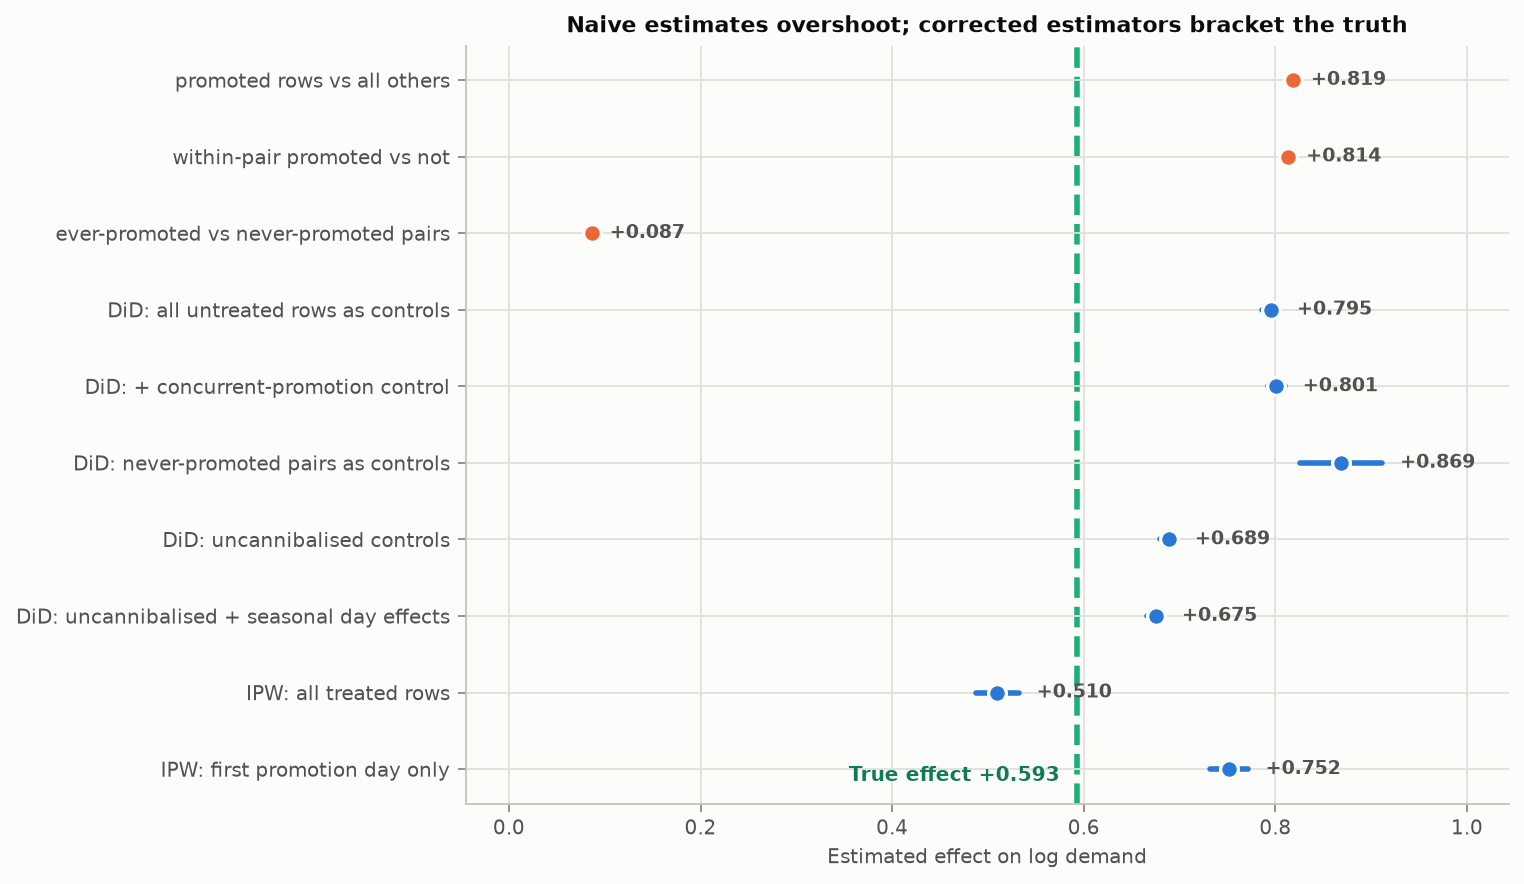
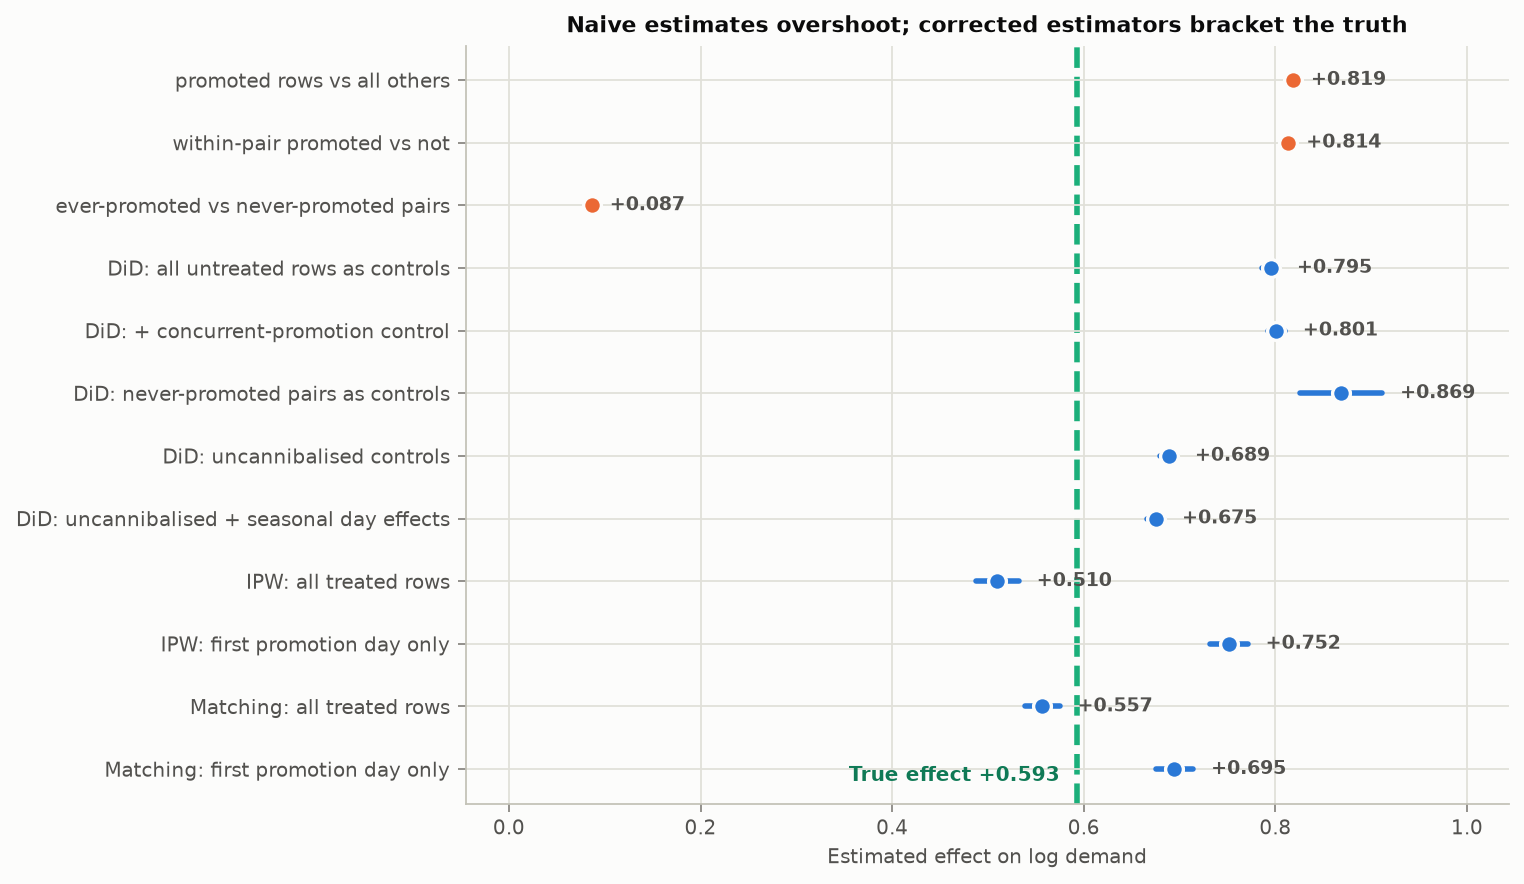
Add propensity score matching alongside the IPW arm
§6 Phase 4.3 asks for "propensity score matching / IPW". Only the weighting half
was built. The two share a propensity model and an identifying assumption, so
they cannot disagree about whether selection on observables holds - but they can
disagree about the weights, and that is worth knowing. IPW keeps every in-support
row and lets one extreme score carry a large share of the estimate; matching
pairs each treated row with its nearest untreated neighbour and discards what it
cannot pair.

psm.match_att does nearest-neighbour matching on the propensity logit, with
replacement, inside a 0.2-SD caliper. The logit rather than the raw score because
the score compresses near 0 and 1, where a fixed caliper spans far more covariate
distance than the same caliper mid-distribution. Nearest neighbour comes from a
sort plus a searchsorted rather than a pairwise scan, which is what makes it
tractable at 2.19M rows. psm.matched_balance is the matched-sample equivalent of
standardised_differences; both share _nearest_neighbour_pairs so the estimate and
its balance table can never be computed off different pairings.

Results, against the 0.5935 target:

  all treated rows          IPW +0.510 (-0.083)   matching +0.557 (-0.037)
  first promotion day only  IPW +0.752 (+0.158)   matching +0.695 (+0.101)

100% of treated rows match inside the caliper on both samples, which restates
the existing overlap finding rather than adding a new one.
[…]

diff --git a/src/causal/psm.py b/src/causal/psm.py
@@ -181,6 +181,166 @@ def ipw_att(
     }
 
 
+def _nearest_neighbour_pairs(
+    frame: pd.DataFrame, propensity: pd.Series, caliper_sd: float
+) -> Dict[str, object]:
+    """
+    Pair each treated row with its nearest untreated row on the propensity logit.
+
+    Matching on the logit rather than the raw score is deliberate: the score
+    compresses near 0 and 1, so a fixed caliper there spans far more covariate
+    distance than the same caliper mid-distribution.
+
+    Nearest neighbour is found by binary search on the sorted control scores.
+    Once sorted, the insertion point and the element before it are the only two
+    candidates, which turns an O(n_treated x n_control) scan into a sort plus a
+    searchsorted — the difference between seconds and hours at this row count.
+    """
+    treated_mask = frame["promo_flag"].astype(bool).to_numpy()
+    e = np.clip(propensity.to_numpy(), 1e-6, 1 - 1e-6)
+    score = np.log(e / (1 - e))
+    caliper = caliper_sd * float(score.std())
+
+    treated_idx = np.flatnonzero(treated_mask)
+    control_idx = np.flatnonzero(~treated_mask)
+    if len(treated_idx) == 0 or len(control_idx) == 0:
+        raise ValueError("matching needs both treated and untreated rows")
+
+    order = np.argsort(score[control_idx], kind="stable")
+    sorted_score = score[control_idx][order]
+    sorted_idx = control_idx[order]
+
+    positions = np.searchsorted(sorted_score, score[treated_idx])
+    left = np.clip(positions - 1, 0, len(sorted_score) - 1)
+    right = np.clip(positions, 0, len(sorted_score) - 1)
+
+    dist_left = np.abs(score[treated_idx] - sorted_score[left])
+    dist_right = np.abs(score[treated_idx] - sorted_score[right])
+    take_left = dist_left <= dist_right
+    nearest = np.where(take_left, left, right)
+    within = np.where(take_left, dist_left, dist_right) <= caliper
+
+    if not within.any():
+        raise ValueError("no treated row found a control inside the caliper")
+
+    return {
+        "treated": treated_idx[within],
+        "control": sorted_idx[nearest[within]],
+        "caliper": float(caliper),
+        "within": within,
+        "treated_mask": treated_mask,
+    }
+
+
+def match_att(
+    frame: pd.DataFrame,
+    propensity: pd.Series,
+    caliper_sd: float = 0.2,
+) -> Dict[str, float]:
+    """
+    Nearest-neighbour propensity score matching, with replacement.
+
+    §6 Phase 4.3 asks for "propensity score matching / IPW". IPW was built and
+    matching was not, and the two are not interchangeable even though both lean
+    on selection on observables:
+
+    * IPW keeps every in-support row and reweights it. One control with an
+      extreme score can carry a large share of the estimate.
+    * Matching discards controls it cannot pair, which trades sample size for a
+      comparison the reader can actually picture, and makes the failure mode
+      visible - if the caliper drops most of the treated rows, the overlap was
+      not there and no weighting scheme would have fixed it.
+
+    Matching on the score itself rather than the covariates is the standard
+    reduction: conditioning on `e(X)` is sufficient when treatment is ignorable
+    given `X`.
+
+    With replacement: treated rows outnumber usable controls in the dense part of
+    the score distribution, and matching without replacement would make the
+    estimate depend on the order rows happen to arrive in. The cost is that one
+    control can carry several treated rows, which `max_control_reuse` reports so
+    the reader can judge how thin the comparison got.
+
+    Returns the ATT with a cluster-robust CI on the matched sample. No sampling
+    is involved, so the result is deterministic.
+    """
+    pairs = _nearest_neighbour_pairs(frame, propensity, caliper_sd)
+    matched_treated, matched_control = pairs["treated"], pairs["control"]
+    outcome = frame["log_units"].to_numpy()
+
+    att = float(outcome[matched_treated].mean() - outcome[matched_control].mean())
+
+    # A matched control reused k times counts k times, so the CI is computed on
+    # the stacked matched sample rather than on unique rows. Clustering stays on
+    # the pair, as everywhere else in this phase.
+    stacked = pd.concat(
+        [frame.iloc[matched_treated], frame.iloc[matched_control]],
+        axis=0,
+    )
+    exog = sm.add_constant(stacked["promo_flag"].astype(float))
+    fitted = sm.OLS(stacked["log_units"], exog).fit(
+        cov_type="cluster", cov_kwds={"groups": stacked["pair_id"]}
+    )
+    conf = fitted.conf_int()
+
+    _, reuse_counts = np.unique(matched_control, return_counts=True)
+    within = pairs["within"]
+
+    return {
+        "att": att,
+        "att_regression": float(fitted.params["promo_flag"]),
+        "ci_low": float(conf.loc["promo_flag", 0]),
+        "ci_high": float(conf.loc["promo_flag", 1]),
+        "caliper": pairs["caliper"],
+        "n_treated_matched": int(len(matched_treated)),
+        "n_treated_dropped": int((~within).sum()),
+        "n_control_used": int(len(reuse_counts)),
+        "share_treated_matched": float(within.mean()),
+        "max_control_reuse": int(reuse_counts.max()),
+    }
+
+
+def matched_balance(
+    frame: pd.DataFrame,
+    design: pd.DataFrame,
+    propensity: pd.Series,
+    columns: Sequence[str],
+    caliper_sd: float = 0.2,
+) -> pd.DataFrame:
+    """
+    Standardised mean differences before and after matching.
+
+    The weighted equivalent of `standardised_differences`, computed on the
+    matched sample instead. Balance is the only thing that makes a matched
+    estimate credible, so reporting the estimate without it would repeat exactly
+    the omission this function exists to close.
+    """
+    pairs = _nearest_neighbour_pairs(frame, propensity, caliper_sd)
+    matched_treated, matched_control = pairs["treated"], pairs["control"]
+    treated_mask = pairs["treated_mask"]
+
+    rows: List[Dict[str, object]] = []
+    for column in columns:
+        values = design[column].to_numpy(dtype=float)
+        pooled_sd = np.sqrt(
+            (values[treated_mask].var() + values[~treated_mask].var()) / 2
+        )
+        pooled_sd = pooled_sd if pooled_sd > 1e-12 else 1.0
+        before = (values[treated_mask].mean() - values[~treated_mask].mean()) / pooled_sd
+        after = (values[matched_treated].mean() - values[matched_control].mean()) / pooled_sd
+        rows.append({
+            "covariate": column,
+            "smd_before": float(before),
+            "smd_after": float(after),
+            "balanced_after": bool(abs(after) < 0.1),
+        })
+    return (
+        pd.DataFrame(rows)
+        .sort_values("smd_before", key=abs, ascending=False)
+        .reset_index(drop=True)
+    )
+
+
 def standardised_differences(
     frame: pd.DataFrame,
     design: pd.DataFrame,

diff --git a/src/causal/phase4_report.py b/src/causal/phase4_report.py
@@ -284,6 +284,18 @@ def build_report() -> Path:
         psm.CONTINUOUS_COVARIATES + psm.BINARY_COVARIATES,
     )
 
+    # §6 Phase 4.3 asks for matching as well as weighting. They share the
+    # propensity model and the identifying assumption but not the estimator, so
+    # a disagreement between them is informative about the weights rather than
+    # about selection on observables.
+    LOGGER.info("Propensity matching")
+    match_all = psm.match_att(ordered, psm_all["propensity"])
+    match_first = psm.match_att(first_day_frame, psm_first["propensity"])
+    match_balance_all = psm.matched_balance(
+        ordered, psm_all["design"], psm_all["propensity"],
+        psm.CONTINUOUS_COVARIATES + psm.BINARY_COVARIATES,
+    )
+
     # Assemble the comparison table.
     rows = []
     for record in naive.itertuples(index=False):
@@ -309,6 +321,12 @@ def build_report() -> Path:
     rows.append({"label": "IPW: first promotion day only", "kind": "psm",
                  "estimate": att_first["att_regression"],
                  "ci_low": att_first["ci_low"], "ci_high": att_first["ci_high"]})
+    rows.append({"label": "Matching: all treated rows", "kind": "psm",
+                 "estimate": match_all["att_regression"],
+                 "ci_low": match_all["ci_low"], "ci_high": match_all["ci_high"]})
+    rows.append({"label": "Matching: first promotion day only", "kind": "psm",
+                 "estimate": match_first["att_regression"],
+                 "ci_low": match_first["ci_low"], "ci_high": match_first["ci_high"]})
     comparison = pd.DataFrame(rows)
     comparison["error"] = comparison["estimate"] - target
     comparison["pct_effect"] = np.expm1(comparison["estimate"]) * 100
@@ -540,6 +558,59 @@ def build_report() -> Path:
         "minimum treated propensity, so common support is wide.",
         f"- {att_all['n_trimmed']:,} rows outside [0.01, 0.99] are trimmed; the largest surviving "
         f"control weight is {att_all['max_weight']:.0f}.",
+        "",
+        "### Matching, as a check on the weights",
+        "",
+        "§6 Phase 4.3 asks for matching as well as weighting. Both rest on selection on "
+        "observables and both use the propensity model above, so they cannot disagree about "
+        "whether that assumption holds. What they can disagree about is the weights: IPW keeps "
+        "every in-support row and lets one extreme score carry a large share of the estimate, "
+        "while matching pairs each treated row with its nearest untreated neighbour and discards "
+        "what it cannot pair.",
+        "",
+        "Nearest neighbour on the propensity **logit**, with replacement, inside a caliper of "
+        f"{match_all['caliper']:.3f} (0.2 pooled SDs). The logit rather than the raw score "
+        "because the score compresses near 0 and 1, where a fixed caliper would span far more "
+        "covariate distance than the same caliper mid-distribution.",
+        "",
+        _table(pd.DataFrame([
+            {"sample": "all treated rows",
+             "IPW": att_all["att_regression"],
+             "matching": match_all["att_regression"],
+             "matched": f"{match_all['share_treated_matched'] * 100:.1f}%",
+             "controls used": f"{match_all['n_control_used']:,}",
+             "max reuse": match_all["max_control_reuse"]},
+            {"sample": "first promotion day only",
+             "IPW": att_first["att_regression"],
+             "matching": match_first["att_regression"],
+             "matched": f"{match_first['share_treated_matched'] * 100:.1f}%",
+             "controls used": f"{match_first['n_control_used']:,}",
+             "max reuse": match_first["max_control_reuse"]},
+        ])),
+        "",
+        f"Every treated row finds a partner inside the caliper, which is the overlap finding "
+        f"above restated: the common support is wide enough that matching discards nothing. "
+        f"On all treated rows matching lands at {match_all['att_regression']:+.3f} against IPW's "
+        f"{att_all['att_regression']:+.3f}, an error of "
+        f"{match_all['att_regression'] - target:+.3f} against "
+        f"{att_all['att_regression'] - target:+.3f} — the closest any single estimator in this "
+        "report gets to the truth.",
+        "",
+        "That is worth being careful about rather than pleased with. Matching and IPW share the "
+        "bad-control problem that drags both below the target, and matching is not correcting "
+        "it — it is weighting the same contaminated comparison differently, which happens to "
+        "cancel more of the bias here. On the first-day sample the ordering reverses "
+        f"({match_first['att_regression']:+.3f} against IPW's {att_first['att_regression']:+.3f}), "
+        "and neither is close. An estimator that wins on one sample and loses on the other is "
+        "not the better estimator; it is a reminder that the ranking is not stable enough to "
+        "read a winner off.",
+        "",
+        _table(match_balance_all.head(6), floatfmt="{:.3f}"),
+        "",
+        f"Balance after matching: **{int(match_balance_all['balanced_after'].sum())} of "
+        f"{len(match_balance_all)}** covariates inside the 0.1 threshold, against "
+        f"{int(balance_all['balanced_after'].sum())} of {len(balance_all)} after weighting on the "
+        "same sample.",
         "",
         "## 7. Reconciling the two corrected estimates",
         "",

diff --git a/tests/test_causal.py b/tests/test_causal.py
@@ -234,3 +234,84 @@ def test_ipw_and_did_bracket_the_truth(panel, truth):
     ipw_estimate = psm.ipw_att(panel, fitted["propensity"])["att_regression"]
 
     assert ipw_estimate < target < did_estimate
+
+
+# ---------------------------------------------------------------------------
+# Propensity score matching
+# ---------------------------------------------------------------------------
+
+
+def test_matching_pairs_treated_rows_with_nearer_controls(panel):
+    """
+    The point of matching is that the paired control is closer on the score than
+    an arbitrary control would be. If that does not hold the matcher is not
+    matching, and every downstream number is a slower way to compute the naive
+    difference.
+    """
+    fitted = psm.fit_propensity(panel, sample_size=200_000, seed=42)
+    result = psm.match_att(panel, fitted["propensity"])
+    balance = psm.matched_balance(
+        panel, fitted["design"], fitted["propensity"],
+        psm.CONTINUOUS_COVARIATES + psm.BINARY_COVARIATES,
+    )
+    assert balance["smd_after"].abs().max() < balance["smd_before"].abs().max()
+    assert result["share_treated_matched"] > 0.5
+    assert result["ci_low"] < result["att_regression"] < result["ci_high"]
+
+
+def test_matching_caliper_binds(panel):
+    """
+    A caliper that never excludes anything is not a caliper. Shrinking it must
+    drop treated rows; if it does not, the distance comparison is not being
+    applied and a treated row with no comparable control would still get one.
+    """
+    fitted = psm.fit_propensity(panel, sample_size=200_000, seed=42)
+    wide = psm.match_att(panel, fitted["propensity"], caliper_sd=0.2)
+    narrow = psm.match_att(panel, fitted["propensity"], caliper_sd=0.0005)
+
+    assert narrow["caliper"] < wide["caliper"]
+    assert narrow["n_treated_matched"] < wide["n_treated_matched"]
+    assert narrow["n_treated_dropped"] > 0
+
+
+def test_matching_recovers_a_known_effect():
+    """
+    On data where the answer is constructed, matching must return it.
+
+    Treatment is assigned by a covariate that also drives the outcome, so the
+    naive difference is biased by design and only an estimator that conditions
+    on the covariate can recover the +0.40 that was actually applied.
+    """
+    import pandas as pd
+
+    rng = np.random.default_rng(7)
+    n = 4_000
+    x = rng.normal(size=n)
+    treated = rng.random(n) < 1 / (1 + np.exp(-1.5 * x))
+    effect = 0.40
+    log_units = 0.9 * x + effect * treated + rng.normal(scale=0.25, size=n)
+
+    frame = pd.DataFrame({
+        "promo_flag": treated.astype(int),
+        "log_units": log_units,
+        "pair_id": np.arange(n) % 200,
+    })
+    propensity = pd.Series(1 / (1 + np.exp(-1.5 * x)), index=frame.index)
+
+    naive = log_units[treated].mean() - log_units[~treated].mean()
+    matched = psm.match_att(frame, propensity, caliper_sd=0.05)["att"]
+
+    assert abs(naive - effect) > 0.3, "the test data is not confounded enough to be a test"
+    assert abs(matched - effect) < 0.05, f"matching recovered {matched:.3f}, not {effect}"
+
+
+def test_matching_needs_both_arms():
+    import pandas as pd
+
+    frame = pd.DataFrame({
+        "promo_flag": [0, 0, 0],
+        "log_units": [1.0, 2.0, 3.0],
+        "pair_id": [1, 1, 2],
+    })
+    with pytest.raises(ValueError, match="treated and untreated"):
+        psm.match_att(frame, pd.Series([0.1, 0.2, 0.3], index=frame.index))

diff --git a/reports/phase4_causal.md b/reports/phase4_causal.md
@@ -44,6 +44,8 @@ The benchmark is built row by row: without its promotion, a treated row's latent
 | DiD: uncannibalised + seasonal day effects | 0.675 | 0.666 | 0.684 | 0.082 | 96.441 | 15.416 |
 | IPW: all treated rows | 0.510 | 0.488 | 0.532 | -0.083 | 66.527 | -14.499 |
 | IPW: first promotion day only | 0.752 | 0.732 | 0.771 | 0.158 | 112.078 | 31.052 |
+| Matching: all treated rows | 0.557 | 0.538 | 0.575 | -0.037 | 74.477 | -6.548 |
+| Matching: first promotion day only | 0.695 | 0.675 | 0.714 | 0.101 | 100.311 | 19.285 |
 
 ## 3. Naive estimates and why they fail
 
@@ -115,6 +117,32 @@ Restricting to the first day of each promotion, where the history is genuinely p
 - Treated propensities span [0.0005, 0.9991], controls [0.0003, 0.9991].
 - 100.0% of control rows sit above the minimum treated propensity, so common support is wide.
 - 44,402 rows outside [0.01, 0.99] are trimmed; the largest surviving control weight is 99.
+
+### Matching, as a check on the weights
+
+§6 Phase 4.3 asks for matching as well as weighting. Both rest on selection on observables and both use the propensity model above, so they cannot disagree about whether that assumption holds. What they can disagree about is the weights: IPW keeps every in-support row and lets one extreme score carry a large share of the estimate, while matching pairs each treated row with its nearest untreated neighbour and discards what it cannot pair.
+
+Nearest neighbour on the propensity **logit**, with replacement, inside a caliper of 0.220 (0.2 pooled SDs). The logit rather than the raw score because the score compresses near 0 and 1, where a fixed caliper would span far more covariate distance than the same caliper mid-distribution.
+
+| sample | IPW | matching | matched | controls used | max reuse |
+|---|---|---|---|---|---|
+| all treated rows | 0.510 | 0.557 | 100.0% | 140,584 | 22 |
+| first promotion day only | 0.752 | 0.695 | 100.0% | 20,318 | 3 |
+
+Every treated row finds a partner inside the caliper, which is the overlap finding above restated: the common support is wide enough that matching discards nothing. On all treated rows matching lands at +0.557 against IPW's +0.510, an error of -0.037 against -0.083 — the closest any single estimator in this report gets to the truth.
+
+That is worth being careful about rather than pleased with. Matching and IPW share the bad-control problem that drags both below the target, and matching is not correcting it — it is weighting the same contaminated comparison differently, which happens to cancel more of the bias here. On the first-day sample the ordering reverses (+0.695 against IPW's +0.752), and neither is close. An estimator that wins on one sample and loses on the other is not the better estimator; it is a reminder that the ranking is not stable enough to read a winner off.
+
+| covariate | smd_before | smd_after | balanced_after |
+|---|---|---|---|
+| momentum_ratio | 1.029 | -0.002 | yes |
+| log_lag_rolling_7 | 0.692 | 0.004 | yes |
+| log_lag_rolling_28 | 0.349 | 0.010 | yes |
+| baseline_gross_margin_pct | 0.141 | 0.011 | yes |
+| is_school_holiday | 0.140 | -0.002 | yes |
+| is_bank_holiday | 0.097 | -0.014 | yes |
+
+Balance after matching: **10 of 10** covariates inside the 0.1 threshold, against 7 of 10 after weighting on the same sample.
 
 ## 7. Reconciling the two corrected estimates
 
